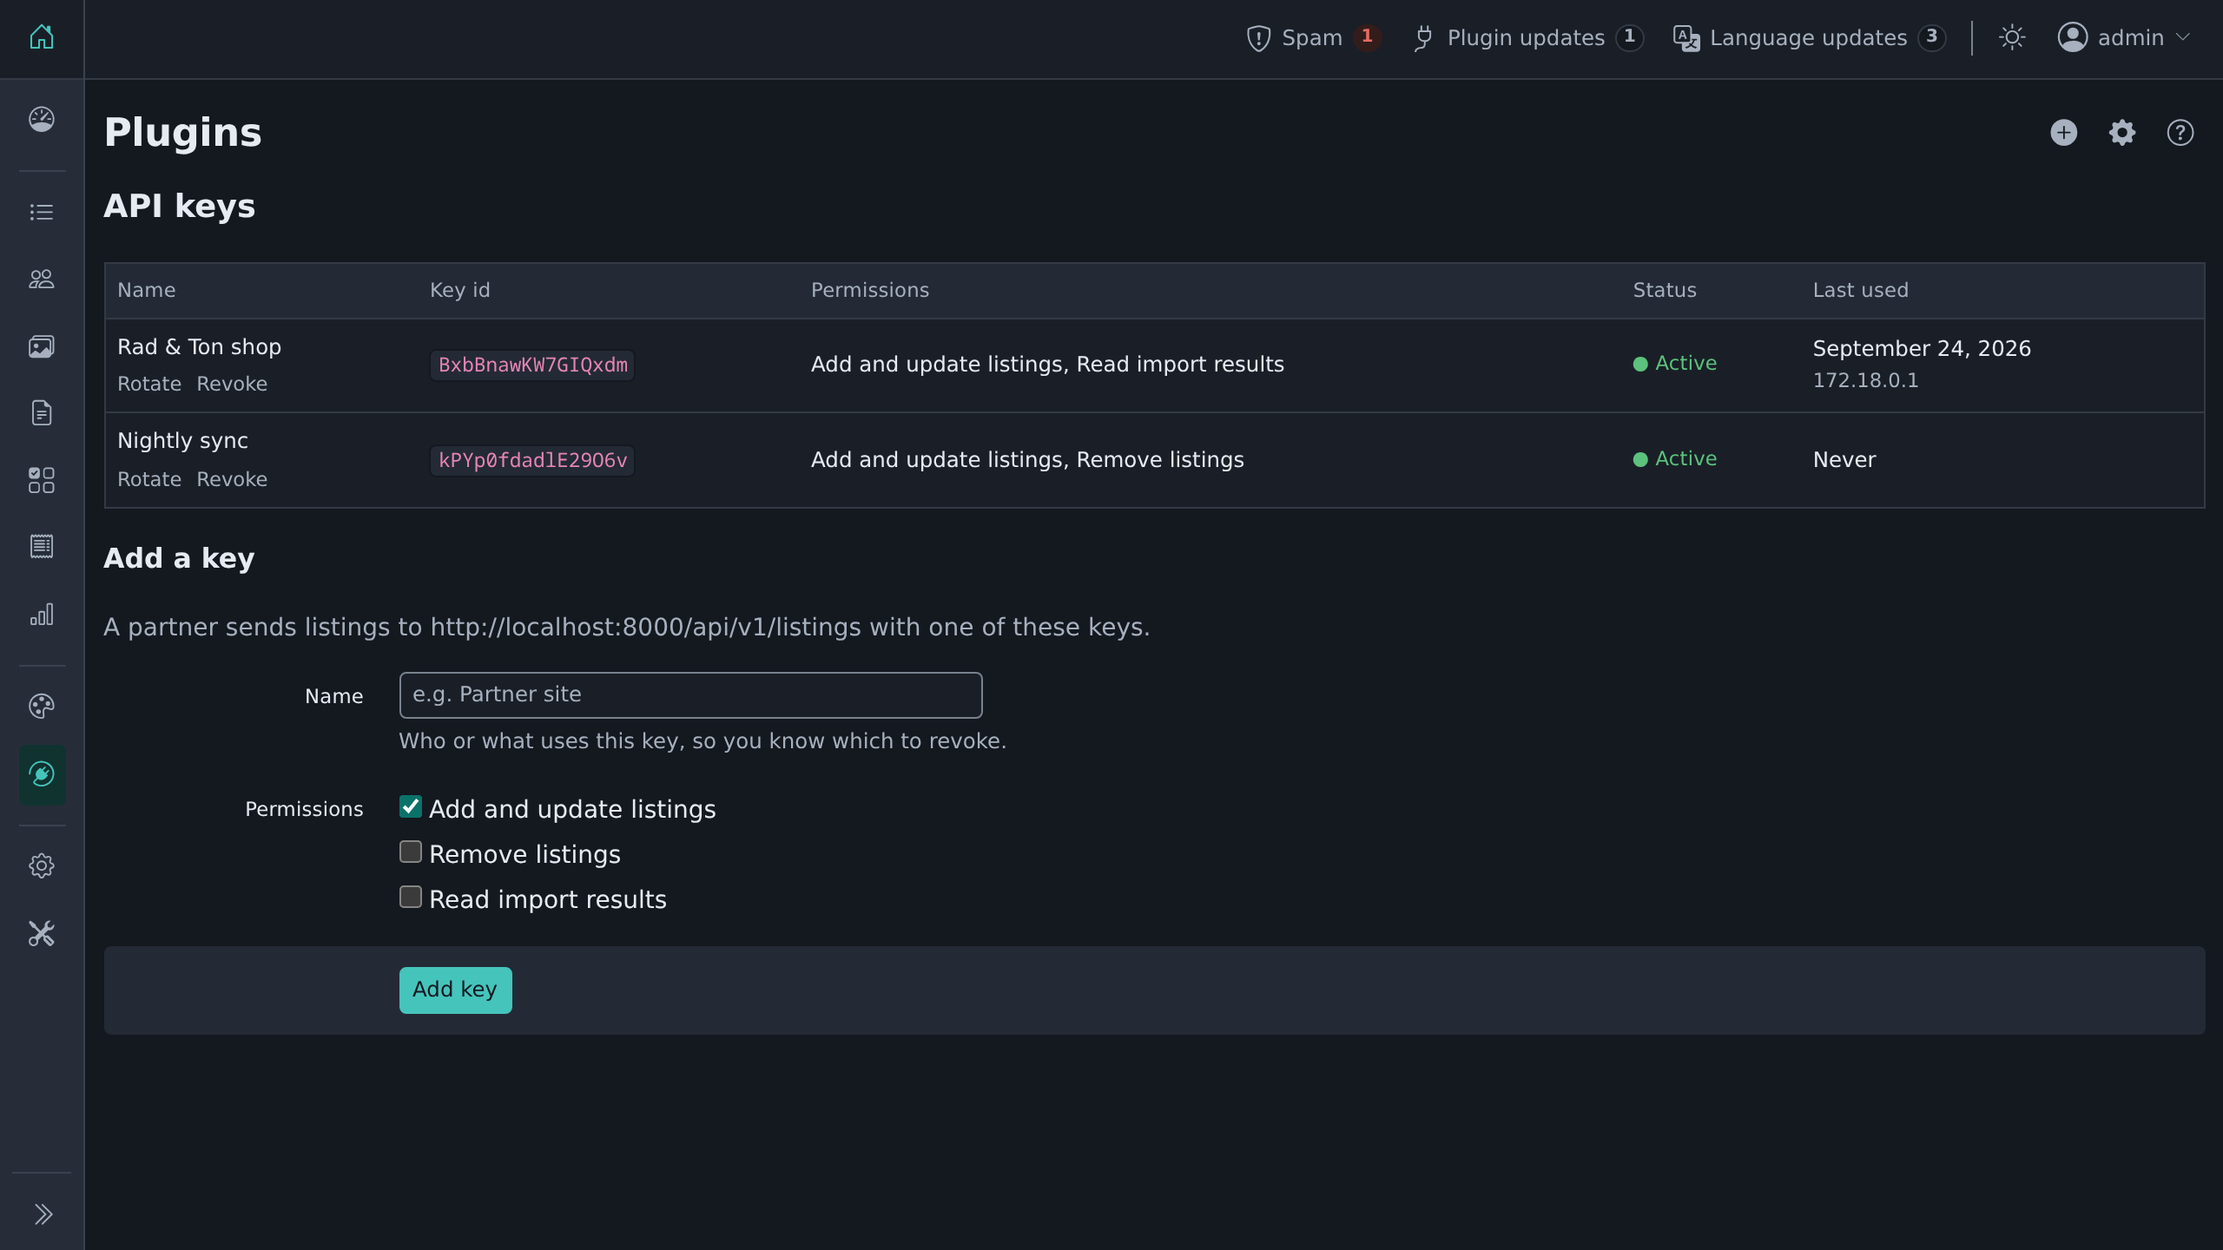
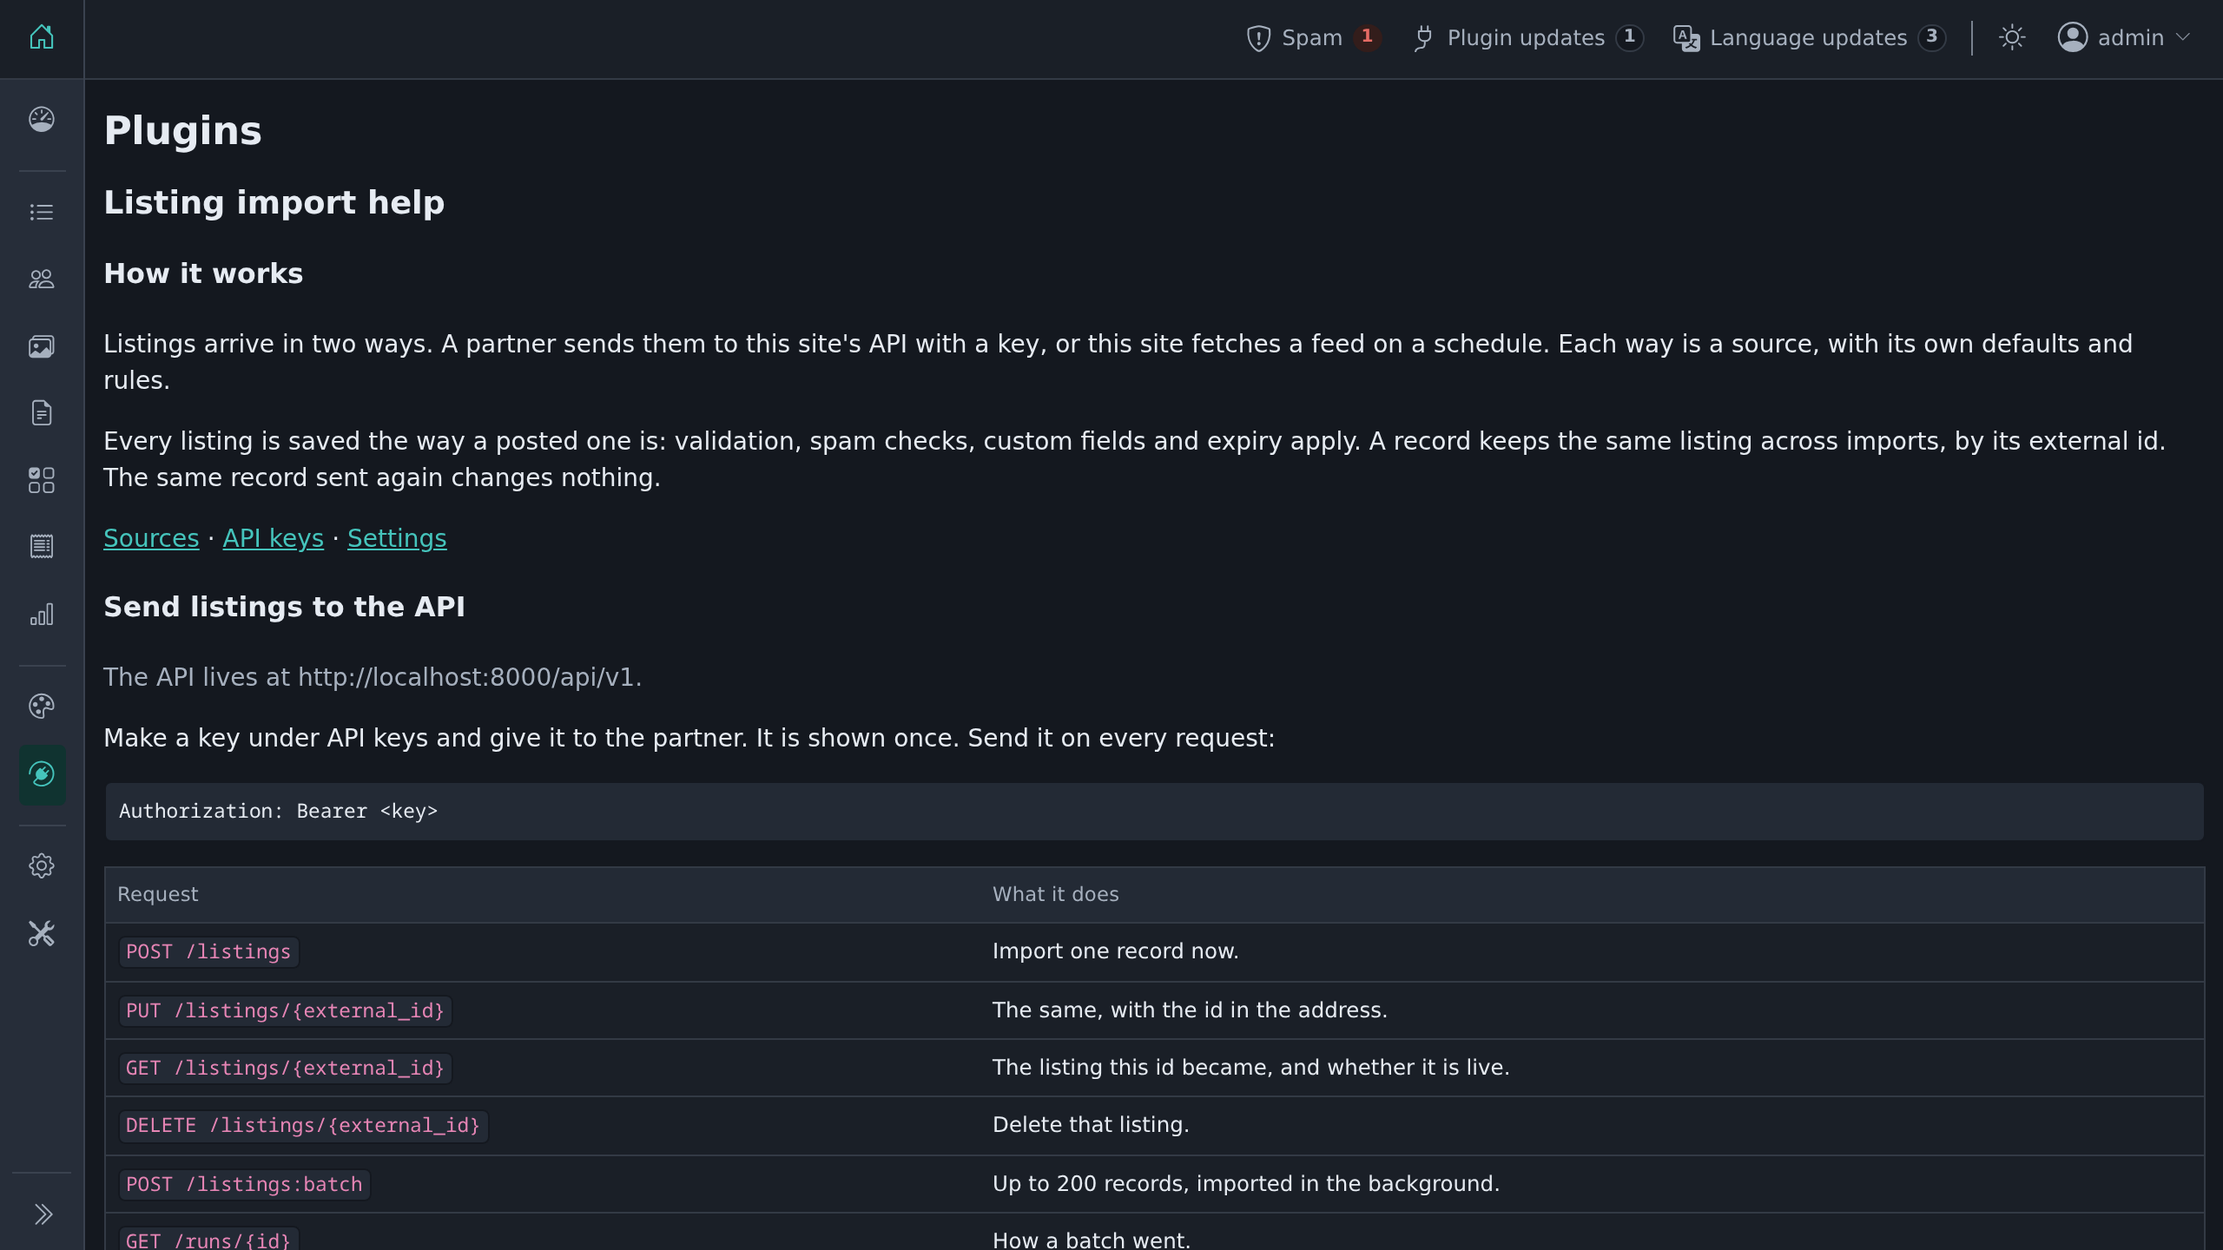
Docs for 0.3.0: help, README, changelog; drop the old keys screenshot

diff --git a/admin/help.php b/admin/help.php
@@ -9,7 +9,6 @@
  * SPDX-License-Identifier: GPL-3.0-or-later
  */
 
-use mindstellar\listingimport\Admin\Keys;
 use mindstellar\listingimport\Admin\Sources;
 use mindstellar\listingimport\Plugin;
 
@@ -17,7 +16,8 @@ if (!defined('ABS_PATH')) {
     exit('Direct access is not allowed.');
 }
 
-$apiUrl = dirname(osc_route_url(Plugin::ROUTE, array('path' => 'ping')));
+$apiUrl  = osc_api_url('ext/listing-import');
+$keysUrl = osc_admin_base_url(true) . '?page=settings&action=api';
 $link   = static fn (string $url, string $text): string => '<a href="' . osc_esc_html($url) . '">' . osc_esc_html($text) . '</a>';
 $code   = static function (string $text): void {
     echo '<pre><code>' . osc_esc_html($text) . '</code></pre>';
@@ -44,7 +44,7 @@ osc_admin_form_section(__('How it works', 'listing-import'));
     <p><?php _e('Listings arrive in two ways. A partner sends them to this site\'s API with a key, or this site fetches a feed on a schedule. Each way is a source, with its own defaults and rules.', 'listing-import'); ?></p>
     <p><?php _e('Every listing is saved the way a posted one is: validation, spam checks, custom fields and expiry apply. A record keeps the same listing across imports, by its external id. The same record sent again changes nothing.', 'listing-import'); ?></p>
     <p><?php echo $link(osc_route_admin_url(Sources::ROUTE), __('Sources', 'listing-import')); ?> &middot;
-        <?php echo $link(osc_route_admin_url(Keys::ROUTE), __('API keys', 'listing-import')); ?> &middot;
+        <?php echo $link($keysUrl, __('API keys', 'listing-import')); ?> &middot;
         <?php echo $link(osc_settings_page_url(Plugin::PAGE), __('Settings', 'listing-import')); ?></p>
 <?php
 
@@ -53,7 +53,7 @@ osc_admin_form_section(__('Send listings to the API', 'listing-import'), array(
     'intro'  => sprintf(__('The API lives at %s.', 'listing-import'), $apiUrl),
 ), array('spaced' => true));
 ?>
-    <p><?php _e('Make a key under API keys and give it to the partner. It is shown once. Send it on every request:', 'listing-import'); ?></p>
+    <p><?php _e('Make an admin key under Settings > API with the Listing import permissions, then list its id on the push source it imports into (Sources > edit). A key listed on no source is refused. Give the key to the partner. It is shown once. Send it on every request:', 'listing-import'); ?></p>
     <?php $code('Authorization: Bearer <key>'); ?>
     <?php $table(array(__('Request', 'listing-import'), __('What it does', 'listing-import')), array(
         array('POST /listings', __('Import one record now.', 'listing-import')),
@@ -62,8 +62,8 @@ osc_admin_form_section(__('Send listings to the API', 'listing-import'), array(
         array('DELETE /listings/{external_id}', __('Delete that listing.', 'listing-import')),
         array('POST /listings:batch', __('Up to 200 records, imported in the background.', 'listing-import')),
         array('GET /runs/{id}', __('How a batch went.', 'listing-import')),
-        array('GET /openapi.json', __('The whole API as an OpenAPI file. No key needed.', 'listing-import')),
     )); ?>
+    <p><?php _e('The paths below are under the API address above. The site\'s whole API, this plugin included, is described at', 'listing-import'); ?> <code><?php echo osc_esc_html(osc_api_url('openapi.json')); ?></code>.</p>
     <p><?php _e('The smallest record. The external id is your own id: send it again and the same listing is updated. Always send the whole record; there is no partial update.', 'listing-import'); ?></p>
     <?php $code("{\n  \"external_id\": \"A-1001\",\n  \"title\": \"Blue bike\",\n  \"description\": \"A good bike, 21 gears.\",\n  \"category\": \"Vehicles > Bikes\"\n}"); ?>
 <?php
@@ -126,7 +126,7 @@ $code('{"data":{"external_id":"A-1001","item_id":294,"status":"active","url":"ht
 $code(sprintf("curl -X DELETE %1\$s/listings/A-1001 \\\n  -H \"Authorization: Bearer \$KEY\"", $apiUrl));
 $code('{"data":{"external_id":"A-1001","item_id":294,"deleted":true}}');
 ?>
-    <p><?php _e('Deleting needs a key with the Remove listings permission.', 'listing-import'); ?></p>
+    <p><?php _e('Deleting needs the Listing import: delete listings permission.', 'listing-import'); ?></p>
 <?php
 osc_admin_disclosure_close();
 
@@ -141,7 +141,7 @@ SH
 ?>
     <p><?php _e('Up to 200 records. It answers 202 at once; the site\'s background jobs import them.', 'listing-import'); ?></p>
     <?php $code('{"data":{"run_id":23,"records":2,"status":"queued"}}'); ?>
-    <p><?php _e('Ask how the run went. It needs a key with the Read import results permission.', 'listing-import'); ?></p>
+    <p><?php _e('Ask how the run went. It needs the Listing import: read import results permission.', 'listing-import'); ?></p>
     <?php $code(sprintf("curl %1\$s/runs/23 \\\n  -H \"Authorization: Bearer \$KEY\"", $apiUrl)); ?>
     <?php $code('{"data":{"run_id":23,"status":"finished","records":2,"counts":{"created":1,"updated":0,"unchanged":0,"retired":0,"failed":1},"started_at":"2026-09-25 05:33:06","finished_at":"2026-09-25 05:33:07","failures":[{"external_id":"A-1002","errors":{"description":"Required."}}]}}'); ?>
 <?php
@@ -149,8 +149,8 @@ osc_admin_disclosure_close();
 
 osc_admin_disclosure_open(__('When a request is refused', 'listing-import'));
 ?>
-    <p><?php _e('Every error has the same shape. For a record, fields says what is wrong with each one, so it can be fixed in one go.', 'listing-import'); ?></p>
-    <?php $code('{"error":{"code":"not_imported","message":"The record was not imported; see fields.","fields":{"description":"Required."}}}'); ?>
+    <p><?php _e('Errors follow RFC 9457 (application/problem+json), as the rest of the API does. For a record, errors says what is wrong with each field, so it can be fixed in one go.', 'listing-import'); ?></p>
+    <?php $code('{"type":"https://mindstellar.com/docs/developers/api/errors/#not_imported","title":"The record was not imported.","status":422,"detail":"The record was not imported; see errors.","code":"not_imported","errors":[{"pointer":"/description","message":"Required.","in":"body"}]}'); ?>
 <?php
 osc_admin_disclosure_close();
 
@@ -158,18 +158,18 @@ osc_admin_form_section(__('Answers and limits', 'listing-import'), array('spaced
 $table(array(__('Status', 'listing-import'), __('Code', 'listing-import'), __('Why', 'listing-import')), array(
     array('400', 'invalid_json', __('The body is not JSON.', 'listing-import')),
     array('401', 'unauthorized', __('No key, or a wrong one.', 'listing-import')),
-    array('403', 'forbidden', __('The key lacks the permission.', 'listing-import')),
+    array('403', 'forbidden, insufficient_scope', __('The key is not an admin key, or lacks the permission.', 'listing-import')),
     array('404', 'not_found', __('No such endpoint, listing or run.', 'listing-import')),
     array('405', 'method_not_allowed', __('The endpoint does not take that method.', 'listing-import')),
-    array('409', 'no_source', __('The key\'s source is missing or switched off.', 'listing-import')),
-    array('413', 'too_large, too_many_records', __('A body over 1 MB, or more than 200 records.', 'listing-import')),
+    array('409', 'conflict', __('The key is linked to no source, or its source is switched off.', 'listing-import')),
+    array('413', 'too_large', __('A body over 1 MB, or more than 200 records.', 'listing-import')),
     array('415', 'unsupported_media_type', __('Send Content-Type: application/json.', 'listing-import')),
-    array('422', 'not_imported, invalid_batch, id_mismatch', __('The record is wrong. fields says where.', 'listing-import')),
-    array('429', 'rate_limited', __('Too many requests. Wait for the Retry-After seconds.', 'listing-import')),
-    array('500', 'not_deleted, server_error', __('Something failed on the site. Its error log says what.', 'listing-import')),
+    array('422', 'not_imported, validation_failed', __('The record is wrong. errors says where.', 'listing-import')),
+    array('429', 'rate_limited, too_many_failures', __('Too many requests. Wait for the Retry-After seconds.', 'listing-import')),
+    array('500', 'server_error', __('Something failed on the site. Its error log says what.', 'listing-import')),
 ));
 ?>
-    <p><?php _e('Each key may send a set number of requests a minute; change it under Settings. An address that sends a wrong key 20 times in 15 minutes is refused for a while. The whole API is described in openapi.json, which needs no key.', 'listing-import'); ?></p>
+    <p><?php _e('Request limits, and the lockout of an address that keeps sending a wrong key, are the API settings of the site under Settings > API.', 'listing-import'); ?></p>
 <?php
 
 osc_admin_form_section(__('Fetch a feed', 'listing-import'), array('spaced' => true));
@@ -185,7 +185,7 @@ osc_admin_form_section(__('Import a file', 'listing-import'), array('spaced' => 
 <?php
 
 osc_admin_form_section(__('Command line', 'listing-import'), array('spaced' => true));
-$code("php oc-cli.php import:run --file=records.json --dry-run\nphp oc-cli.php import:run --file=records.json\nphp oc-cli.php import:status\nphp oc-cli.php import:key:create --name=\"Partner site\"");
+$code("php oc-cli.php import:run --file=records.json --dry-run\nphp oc-cli.php import:run --file=records.json\nphp oc-cli.php import:status\nphp oc-cli.php api:key:create --admin=<username> --name=\"Partner site\" --scopes=ext:listing-import:write,ext:listing-import:runs");
 ?>
     <p><?php _e('Batches and feeds run with the site\'s background jobs, so the site\'s cron must run.', 'listing-import'); ?></p>
 <?php

diff --git a/README.md b/README.md
@@ -10,12 +10,12 @@ moderation, spam checks, listing limits and expiry.
 |---|---|
 | ![A feed source](assets/screenshot-2.png) | ![Feed preview](assets/screenshot-3.png) |
 | A feed source | Preview a feed before it changes anything |
-| ![API keys](assets/screenshot-4.png) | ![Help](assets/screenshot-5.png) |
-| API keys with their own permissions | A help screen with the API guide |
+| ![Help](assets/screenshot-4.png) | |
+| A help screen with the API guide | |
 
 ## Requirements
 
-- ShopClass 6.4.0 or later
+- ShopClass 7.0 or later
 - PHP 8.0 or later
 
 ## Install
@@ -29,31 +29,24 @@ php oc-cli.php market:install listing-import
 
 ## Check that it works
 
-```bash
-curl https://example.com/api/v1/ping
-```
-
-With friendly URLs off, use the query form:
-
-```bash
-curl "https://example.com/index.php?page=route&route=listing-import-api&path=ping"
-```
-
-Both answer:
-
-```json
-{"data":{"plugin":"listing-import","version":"0.2.0"}}
-```
+The plugin's endpoints are part of the site's REST API, under `/api/v1/ext/listing-import/`.
+The API must be switched on under **Settings → API**. The site describes every endpoint, this
+plugin's included, at `/api/v1/openapi.json`.
 
 ## Make a key
 
-**Plugins → Listing import → API keys → Add a key.** Pick its permissions:
+Keys are the site's own. Under **Settings → API**, make an admin key and tick the Listing
+import permissions:
 
 | Permission | Lets the key |
 |---|---|
-| `listings:write` | import listings, and read where one stands |
-| `listings:delete` | delete a listing it imported |
-| `runs:read` | read how a batch went |
+| `ext:listing-import:write` | import listings, and read where one stands |
+| `ext:listing-import:delete` | delete a listing it imported |
+| `ext:listing-import:runs` | read how a batch went |
+
+Then link the key to the push source it imports into: **Plugins → Listing import → Sources**,
+edit the source and list the key's id under *API key ids*. A key linked to no source is refused.
+A key sees only its own source's listings and runs.
 
 The key is shown once. Keep it safe. Send it on every request:
 
@@ -64,20 +57,21 @@ Authorization: Bearer <key>
 Or make one from the command line:
 
 ```bash
-php oc-cli.php import:key:create --name="Partner site" --scopes=listings:write,runs:read
+php oc-cli.php api:key:create --admin=<username> --name="Partner site" --scopes=ext:listing-import:write,ext:listing-import:runs
 ```
+
+Only admin keys can hold these permissions. Request limits are the site's, under **Settings → API**.
 
 ## Send listings
 
 | Request | What it does |
 |---|---|
-| `POST /api/v1/listings` | Import one record now. |
-| `PUT /api/v1/listings/{external_id}` | The same, with the id in the address. |
-| `GET /api/v1/listings/{external_id}` | The listing this id became, its address, and if it is live. |
-| `DELETE /api/v1/listings/{external_id}` | Delete that listing. |
-| `POST /api/v1/listings:batch` | Up to 200 records, imported in the background. |
-| `GET /api/v1/runs/{id}` | How a batch went. |
-| `GET /api/v1/openapi.json` | The whole API as an OpenAPI 3.1 file. No key needed. |
+| `POST /api/v1/ext/listing-import/listings` | Import one record now. |
+| `PUT /api/v1/ext/listing-import/listings/{external_id}` | The same, with the id in the address. |
+| `GET /api/v1/ext/listing-import/listings/{external_id}` | The listing this id became, its address, and if it is live. |
+| `DELETE /api/v1/ext/listing-import/listings/{external_id}` | Delete that listing. |
+| `POST /api/v1/ext/listing-import/listings:batch` | Up to 200 records, imported in the background. |
+| `GET /api/v1/ext/listing-import/runs/{id}` | How a batch went. |
 
 The smallest record:
 
@@ -117,7 +111,7 @@ A field the plugin does not know comes back as a warning. The record is still im
 A batch answers at once with a run id:
 
 ```bash
-curl -X POST https://example.com/api/v1/listings:batch \
+curl -X POST https://example.com/api/v1/ext/listing-import/listings:batch \
   -H "Authorization: Bearer $KEY" -H "Content-Type: application/json" \
   -d '{"records": [ ... ]}'
 ```
@@ -126,32 +120,32 @@ curl -X POST https://example.com/api/v1/listings:batch \
 {"data":{"run_id":42,"records":150,"status":"queued"}}
 ```
 
-The site's background jobs import the records. Check `GET /api/v1/runs/42` for the result.
+The site's background jobs import the records. Check `GET /api/v1/ext/listing-import/runs/42` for the result.
 
 ## Errors and limits
 
-Every error has the same shape:
+Errors follow RFC 9457 (`application/problem+json`), as the rest of the site's API does:
 
 ```json
-{"error":{"code":"not_imported","message":"The record was not imported; see fields.","fields":{"title":"Required."}}}
+{"type":"https://mindstellar.com/docs/developers/api/errors/#not_imported","title":"The record was not imported.","status":422,"detail":"The record was not imported; see errors.","code":"not_imported","errors":[{"pointer":"/title","message":"Required.","in":"body"}]}
 ```
 
 | Status | Code | Why |
 |---|---|---|
 | 400 | `invalid_json` | The body is not JSON. |
 | 401 | `unauthorized` | No key, or a wrong one. |
-| 403 | `forbidden` | The key lacks the permission. |
+| 403 | `forbidden`, `insufficient_scope` | The key is not an admin key, or lacks the permission. |
 | 404 | `not_found` | No such endpoint, listing or run. |
 | 405 | `method_not_allowed` | The endpoint does not take that method. |
-| 409 | `no_source` | The key's source is missing or switched off. |
-| 413 | `too_large`, `too_many_records` | Body over 1 MB, or more than 200 records. |
+| 409 | `conflict` | The key is linked to no source, or its source is switched off. |
+| 413 | `too_large` | Body over 1 MB, or more than 200 records. |
 | 415 | `unsupported_media_type` | Send `Content-Type: application/json`. |
-| 422 | `not_imported`, `invalid_batch`, `id_mismatch` | The record is wrong. `fields` says where. |
-| 429 | `rate_limited` | Too many requests. Wait for `Retry-After` seconds. |
-| 500 | `not_deleted`, `server_error` | Something failed on the site. The site's error log says what. |
+| 422 | `not_imported`, `validation_failed` | The record is wrong. `errors` says where. |
+| 429 | `rate_limited`, `too_many_failures` | Too many requests. Wait for `Retry-After` seconds. |
+| 500 | `server_error` | Something failed on the site. The site's error log says what. |
 
-Each key may send 60 requests a minute. Change it on the plugin's settings page. An address
-that sends a wrong key 20 times in 15 minutes is refused for a while.
+Request limits, and the lockout of an address that keeps sending a wrong key, are the site's
+API settings.
 
 The site's own rules apply to every listing: moderation, spam checks, listing limits, expiry.
 

diff --git a/CHANGELOG.md b/CHANGELOG.md
@@ -1,5 +1,20 @@
 # Changelog
 
+## 0.3.0
+
+### Breaking
+- Needs Shopclass 7.0. The endpoints moved under `/api/v1/ext/listing-import/`: `/api/v1/listings...` becomes `/api/v1/ext/listing-import/listings...`, `/api/v1/runs/{id}` becomes `/api/v1/ext/listing-import/runs/{id}`.
+- Plugin API keys are gone. Make an admin key under **Settings → API** with the `ext:listing-import:write`, `:delete` or `:runs` permission, then list its id on a push source.
+- `GET /api/v1/ping` and `GET /api/v1/openapi.json` are gone; the site's own `GET /api/v1/openapi.json` lists these endpoints too.
+- Errors are RFC 9457 problems: `errors` with a JSON pointer per field replaces `error.fields`.
+- `import:key:create` is gone; use `api:key:create`. The plugin's request-per-minute setting is gone; limits are under **Settings → API**.
+
+### Changed
+- The endpoints, keys, scopes, request limits and errors are core's. Import, runs, the owner rule, image limits and address checks work as before.
+
+### New
+- A push source lists the key ids that import into it; a key linked to no source is refused with 409.
+
 ## 0.2.0
 
 ### New
